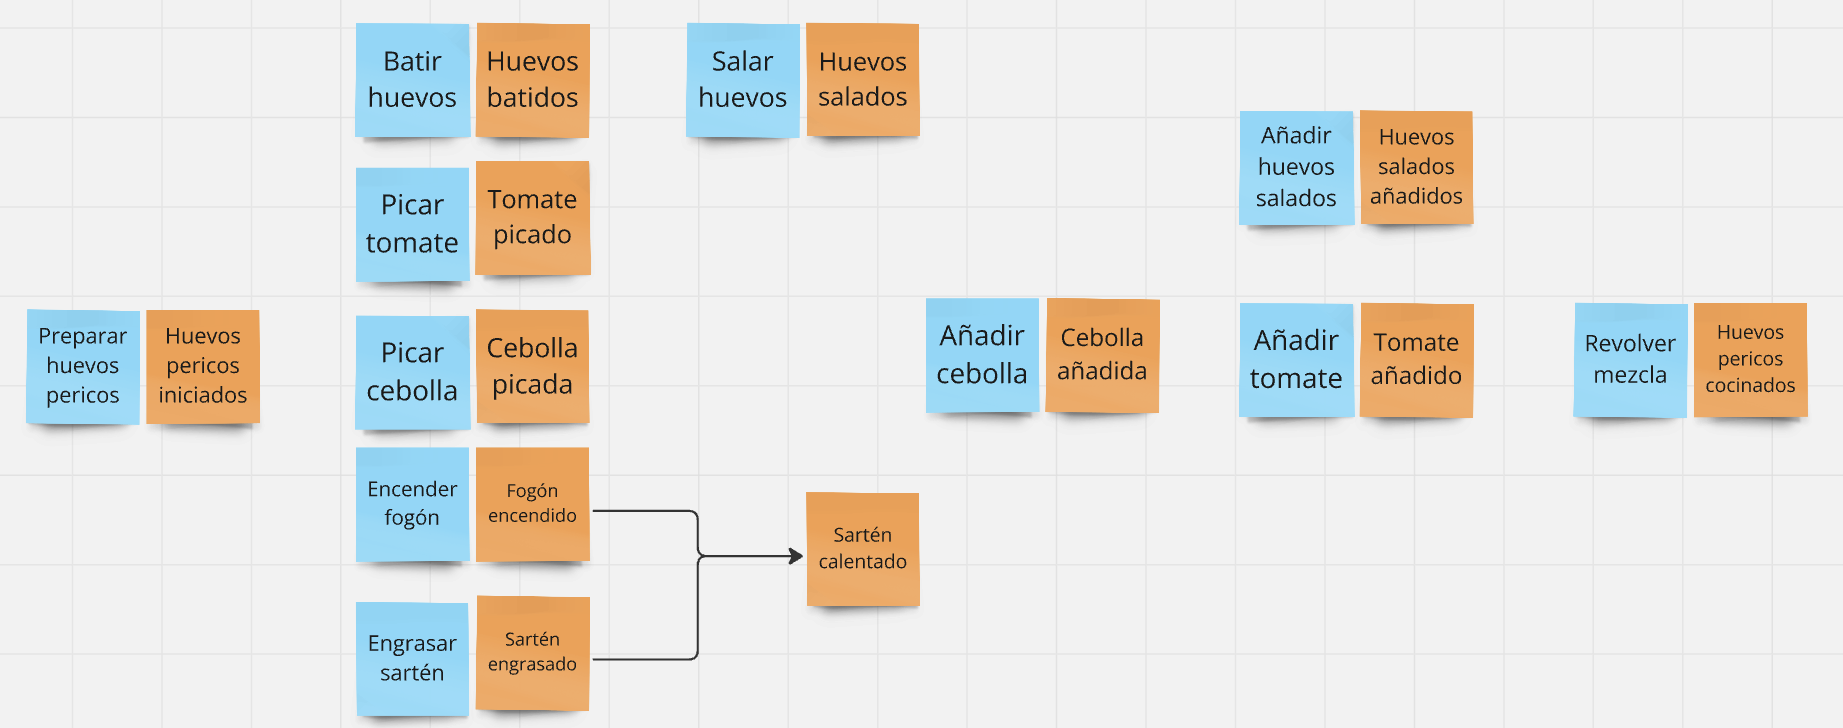
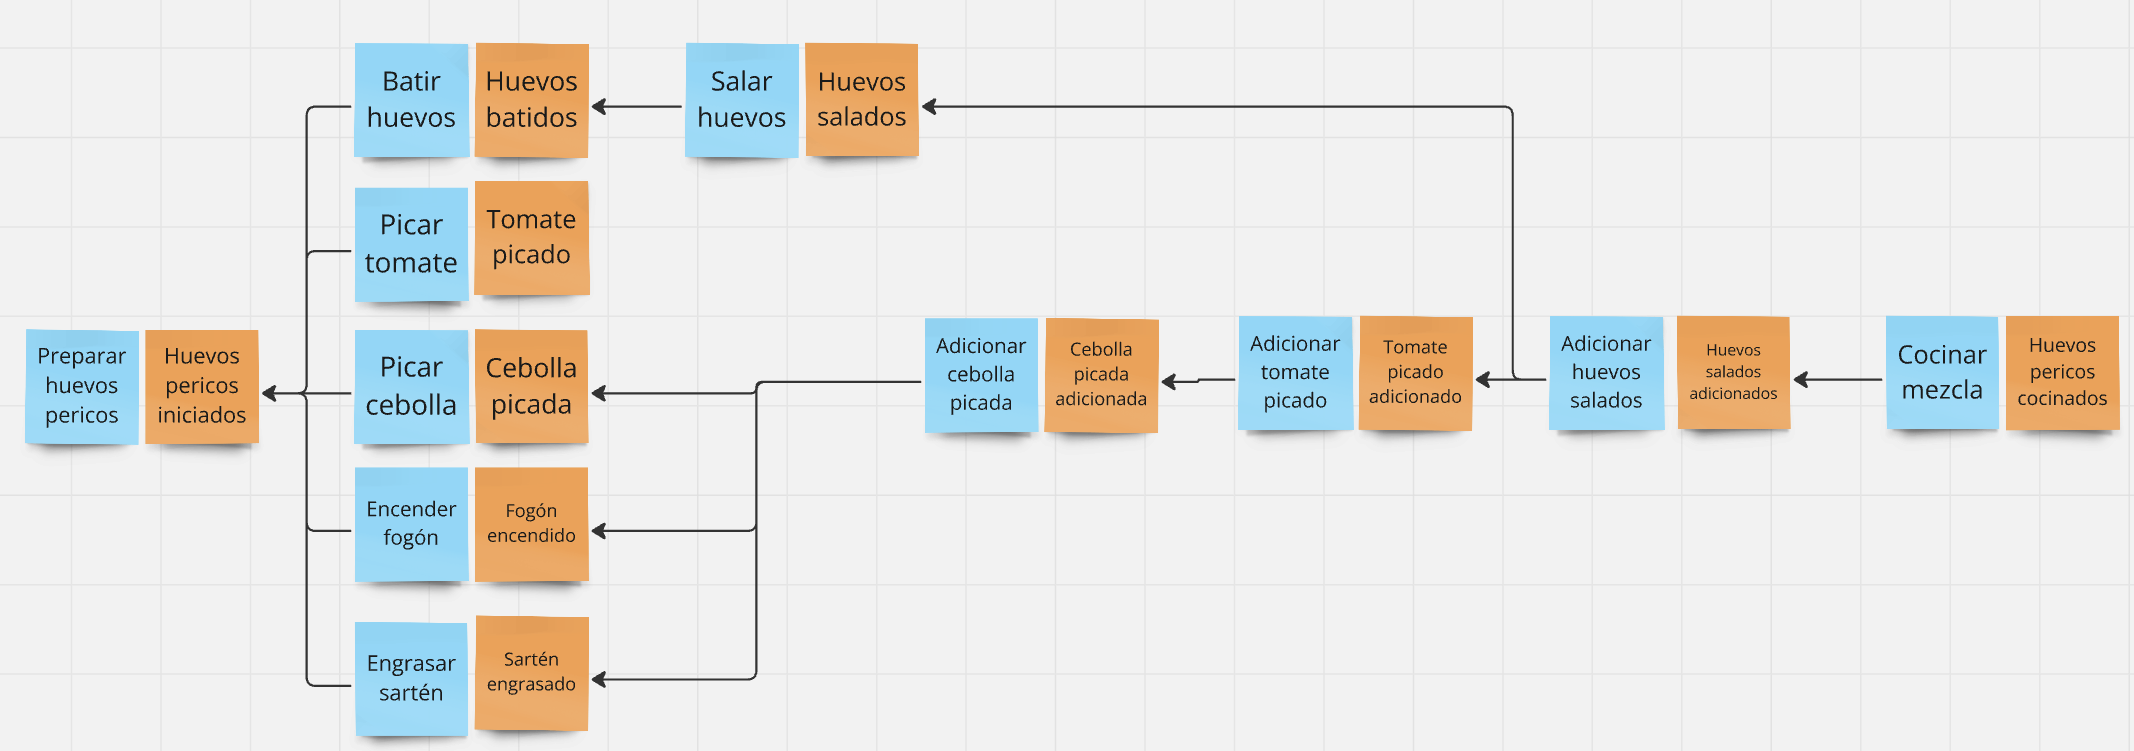
Readme actualizado

Changed region(s): [[0.0, 0.0302, 1.0, 0.7857], [0.1546, 0.8159, 0.3711, 0.9973], [0.3711, 0.6648, 0.5258, 0.8462]]

diff --git a/Kitchen/Kitchen.UnitTests/TestEventStore.cs b/Kitchen/Kitchen.UnitTests/TestEventStore.cs
@@ -4,8 +4,8 @@ namespace Kitchen.UnitTests;
 
 public class TestEventStore : IEventStore
 {
-    private readonly List<StoredEvent> _anterioresEventos = new();
-    private readonly List<StoredEvent> _nuevosEventos = new();
+    private readonly List<StoredEvent> _eventosPasados = new();
+    private readonly List<StoredEvent> _eventosGenerados = new();
 
     /// <summary>
     /// Registrar los eventos ordenados que han sido aplicados antes de la creación de la entidad.
@@ -14,7 +14,7 @@ public class TestEventStore : IEventStore
     /// <param name="eventos">Listado de eventos ordenados que serán aplicados a al entidad antes de ejecutar el SUT.</param>
     public void  AgregarEventosAnteriores(Guid idAgregado, params object[] eventos)
     {
-        _anterioresEventos
+        _eventosPasados
             .AddRange(
                 eventos.Select((evento, i) => new StoredEvent(idAgregado, i, DateTime.UtcNow, evento))
             );
@@ -27,7 +27,7 @@ public class TestEventStore : IEventStore
     /// <returns>Retorna los eventos registrados en el eventStore posteriores a la ejecución del SUT.</returns>
     public object[] ObtenerEventosGenerados(Guid idAgregado)
     {
-        return _nuevosEventos
+        return _eventosGenerados
             .Where(e => e .AggregateId== idAgregado)
             .OrderBy(e => e.SequenceNumber)
             .Select(e => e.EventData)
@@ -41,7 +41,7 @@ public class TestEventStore : IEventStore
     /// <returns></returns>
     public IEnumerable<StoredEvent> ObtenerEventos(Guid idAgregado)
     {
-        var eventos = _anterioresEventos.Concat(_nuevosEventos);
+        var eventos = _eventosPasados.Concat(_eventosGenerados);
         return eventos
             .Where(e => e.AggregateId == idAgregado)
             .ToList();
@@ -53,7 +53,7 @@ public class TestEventStore : IEventStore
     /// <param name="evento">Evento a aplicar a la entidad</param>
     public void AgregarEvento(StoredEvent evento)
     {
-        _nuevosEventos.Add(evento);
+        _eventosGenerados.Add(evento);
     }
 
     /// <summary>

diff --git a/Kitchen/Kitchen.UnitTests/CommandHandlerTest.cs b/Kitchen/Kitchen.UnitTests/CommandHandlerTest.cs
@@ -104,7 +104,7 @@ public abstract class CommandHandlerTest<TComando>
     /// <typeparam name="TEntidad">Entidad que herede de AgreggateRoot.</typeparam>
     /// <param name="idAgregado">El id del agregado que se desea recuperar.</param>
     /// <returns>Entidad con el estado posterior a la aplciación de los eventos registrados.</returns>
-  protected TEntidad ObtenerEntidad<TEntidad>(Guid idAgregado) 
+    protected TEntidad ObtenerEntidad<TEntidad>(Guid idAgregado) 
         where TEntidad : AggregateRoot, new()
     {
         var stream = new EventStream<TEntidad>(EventStore, idAgregado);

diff --git a/README.md b/README.md
@@ -5,7 +5,8 @@ Ejemplo con C# y event sourcing
 ## Cocinita: Contexto del ejercicio
 
 [MIRO](https://miro.com/app/board/uXjVIWSuopc=/?share_link_id=671970103168)
-![EventStorming de la cocina](Assets/img/eventStorming.png)
+
+![EventStorming de la cocina](Assets\img\eventStorming.png)
 
 Tenemos la solución para hacer una cocina. En este momento, el único producto que hacemos el preparar huevos pericos.
 
@@ -60,3 +61,55 @@ Nuestro agregado será el que adminsitra el evento.
 - Creamos una carpeta para el agregado en plural: `HuevosPericos`
 - Creamos la clase del agregado en singular: `HuevoPerico`
   
+## 2. Pruebas unitarias del dominio
+
+### 2.1 Alcance de las pruebas (Suftware Under Test - SUT)
+
+Como la lógica del dominio está principalmente en los `handlers` se va a construir un wrapper para poder hacer las pruebas unitarias al rededor de los eventos previos y los eventos que se generan gracias cuando se ejecute el handler.
+
+### 2.2 TestEventStore
+
+Creamos una clase que herede de `IEventStore` con el fin de hacer un mock del almacenamiento con una implementación en memoria.
+
+Internamente creamos dos colecciones de `StoredEvent` uno para las precondiciones y otra para los resultados.
+
+#### EventosPasados
+
+La colección `_eventosPasados` representan todos los eventos que registramos en el test que sucedieron antes de ejecutar el SUT.
+
+#### EventosGenerados
+
+La colección `_eventosGenerados` representan los eventos que se crearon después de la ejecucuión del `handler`.
+Servirán para acertar los eventos creados por el handler.
+
+### 2.3 CommandHandlerTest
+
+`CommandHandlerTest` es una clase abstracta que heredarán los tests de dominio para los eventos.
+
+Esta clase accede a `TestEventStore` para inyectar el storeEvent en memoria que es usado para las pruebas unitarias.
+
+Inspierado en [Gherkin](https://cucumber.io/docs/gherkin/reference), se crean tres métodos: `Given`, `When` , `Then`.
+
+La intención es declarar las pruebas en una sintaxis parecida a:
+
+**Dado que (Given)** Los huevos han sido batidos
+
+**Cuando (When)** voy a salar los huevos
+
+**Entonces (Then)** los huevos fueron salados
+
+
+#### Given
+
+En español "Dado que". Representará el registro de los eventos anteriores que asumimos para la prueba fueron aplicados antes que corra el handler que vamos a correr.
+
+**La lista de eventos debe ser registrada en orden cronológcio.**
+
+#### When
+
+En español "Cuando". Ejecutará el comando pasándolo al `Handler` que haya sido instanciado en la prueba.
+
+#### Then
+
+En español "Entonces". Validará cada uno de los eventos que el handler emitirá en el orden estricto y comparará cada una de sus propiedades.
+
